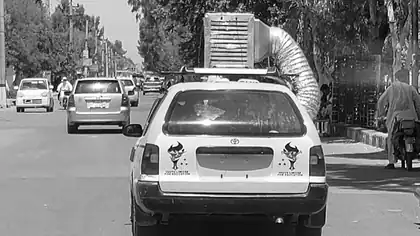
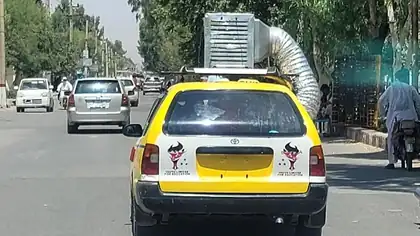
The grey pop between plates, and a cover too big to see its own caption
TWO REAL DEFECTS, both mine, both found by looking rather than by reading the code.

1 THE TRANSITION WENT GREY. Stepping to a plate showed its GHOST for about 1.35 seconds
  before the full photograph arrived, and the ghost files were greyscale. In register the
  plate has filter:none, so that ghost rendered as a genuinely grey picture which then
  snapped into colour. Measured on a throttled connection: 1350ms of grey, then a pop.

  The ghosts never needed to be grey. Out of register the CSS applies grayscale(1) anyway,
  so the colour in the file is invisible there and is exactly what was missing here. All
  ten regenerated in colour, 112 KB to 130 KB for the set, an extra 18 KB in total.
  Verified by sampling the plate mid transition: channel spread 17.5 against 18.2 for the
  full photograph, so it is now the same picture slightly soft rather than a different one
  in grey, and both frames were read side by side to confirm it.

2 THE COVER WAS TOO BIG TO SEE ITS OWN CAPTION. On a laptop the piece cover rendered
  1586x892, which put the caption 1201px down a 945px screen. You scrolled a full viewport
  of photograph before reaching the line that explains it, which is why the new captions
  looked like they had not been applied. The cover is now capped at min(920px, 100%, 90svh),
  height aware so it holds on short screens too. Checked at eight sizes: caption visible
  without scrolling at every one, including 1280x800 where the first attempt still failed.
[…]

diff --git a/pieces/advocacy/index.html b/pieces/advocacy/index.html
@@ -74,7 +74,12 @@ h1{font-size:clamp(1.75rem,4.4vw,3.1rem);line-height:1.04;letter-spacing:-.025em
 .byline{font-family:'JetBrains Mono',ui-monospace,monospace;font-size:var(--mm);
   letter-spacing:.13em;text-transform:uppercase;color:var(--shade);margin-top:16px}
 
-.plate{margin:30px 0 0;border:1px solid var(--ink)}
+/* The cover is capped rather than running the full sheet. At laptop width it was
+   rendering 1586px wide and 892px tall, which put the caption 1201px down a 945px
+   screen: you scrolled a whole viewport of photograph before reaching the line that
+   explains it, and his captions are the point of these pictures. Capped so the
+   photograph and its caption arrive together. */
+.plate{margin:30px 0 0;border:1px solid var(--ink);max-width:min(920px,100%,90svh)}
 .plate img{width:100%;height:auto;aspect-ratio:16/9;object-fit:cover}
 .plate figcaption{font-family:'JetBrains Mono',ui-monospace,monospace;
   font-size:calc(var(--mm) - .5px);color:var(--shade);padding:8px 10px;
@@ -105,8 +110,10 @@ a:focus-visible,.back:focus-visible{outline:2px solid var(--ink);outline-offset:
   .trim::before{top:6px;width:14px}.trim::after{left:6px;height:14px}
   .trim.tl{left:4px;top:4px}.trim.tr{right:4px;top:4px}
   .trim.bl{left:4px;bottom:4px}.trim.br{right:4px;bottom:4px}
+  /* max-width:none, or the desktop cap fights the bleed and the photograph shrinks
+     to the text column instead of running off both edges of the sheet. */
   .plate{margin-left:calc(var(--pad) * -1);margin-right:calc(var(--pad) * -1);
-    border-left:0;border-right:0}
+    border-left:0;border-right:0;max-width:none}
   .body{margin-top:30px}
 }
 @media (prefers-reduced-motion:reduce){*{animation:none!important;transition:none!important}}

diff --git a/pieces/digitalization/index.html b/pieces/digitalization/index.html
@@ -74,7 +74,12 @@ h1{font-size:clamp(1.75rem,4.4vw,3.1rem);line-height:1.04;letter-spacing:-.025em
 .byline{font-family:'JetBrains Mono',ui-monospace,monospace;font-size:var(--mm);
   letter-spacing:.13em;text-transform:uppercase;color:var(--shade);margin-top:16px}
 
-.plate{margin:30px 0 0;border:1px solid var(--ink)}
+/* The cover is capped rather than running the full sheet. At laptop width it was
+   rendering 1586px wide and 892px tall, which put the caption 1201px down a 945px
+   screen: you scrolled a whole viewport of photograph before reaching the line that
+   explains it, and his captions are the point of these pictures. Capped so the
+   photograph and its caption arrive together. */
+.plate{margin:30px 0 0;border:1px solid var(--ink);max-width:min(920px,100%,90svh)}
 .plate img{width:100%;height:auto;aspect-ratio:16/9;object-fit:cover}
 .plate figcaption{font-family:'JetBrains Mono',ui-monospace,monospace;
   font-size:calc(var(--mm) - .5px);color:var(--shade);padding:8px 10px;
@@ -105,8 +110,10 @@ a:focus-visible,.back:focus-visible{outline:2px solid var(--ink);outline-offset:
   .trim::before{top:6px;width:14px}.trim::after{left:6px;height:14px}
   .trim.tl{left:4px;top:4px}.trim.tr{right:4px;top:4px}
   .trim.bl{left:4px;bottom:4px}.trim.br{right:4px;bottom:4px}
+  /* max-width:none, or the desktop cap fights the bleed and the photograph shrinks
+     to the text column instead of running off both edges of the sheet. */
   .plate{margin-left:calc(var(--pad) * -1);margin-right:calc(var(--pad) * -1);
-    border-left:0;border-right:0}
+    border-left:0;border-right:0;max-width:none}
   .body{margin-top:30px}
 }
 @media (prefers-reduced-motion:reduce){*{animation:none!important;transition:none!important}}

diff --git a/pieces/fundraising/index.html b/pieces/fundraising/index.html
@@ -74,7 +74,12 @@ h1{font-size:clamp(1.75rem,4.4vw,3.1rem);line-height:1.04;letter-spacing:-.025em
 .byline{font-family:'JetBrains Mono',ui-monospace,monospace;font-size:var(--mm);
   letter-spacing:.13em;text-transform:uppercase;color:var(--shade);margin-top:16px}
 
-.plate{margin:30px 0 0;border:1px solid var(--ink)}
+/* The cover is capped rather than running the full sheet. At laptop width it was
+   rendering 1586px wide and 892px tall, which put the caption 1201px down a 945px
+   screen: you scrolled a whole viewport of photograph before reaching the line that
+   explains it, and his captions are the point of these pictures. Capped so the
+   photograph and its caption arrive together. */
+.plate{margin:30px 0 0;border:1px solid var(--ink);max-width:min(920px,100%,90svh)}
 .plate img{width:100%;height:auto;aspect-ratio:16/9;object-fit:cover}
 .plate figcaption{font-family:'JetBrains Mono',ui-monospace,monospace;
   font-size:calc(var(--mm) - .5px);color:var(--shade);padding:8px 10px;
@@ -105,8 +110,10 @@ a:focus-visible,.back:focus-visible{outline:2px solid var(--ink);outline-offset:
   .trim::before{top:6px;width:14px}.trim::after{left:6px;height:14px}
   .trim.tl{left:4px;top:4px}.trim.tr{right:4px;top:4px}
   .trim.bl{left:4px;bottom:4px}.trim.br{right:4px;bottom:4px}
+  /* max-width:none, or the desktop cap fights the bleed and the photograph shrinks
+     to the text column instead of running off both edges of the sheet. */
   .plate{margin-left:calc(var(--pad) * -1);margin-right:calc(var(--pad) * -1);
-    border-left:0;border-right:0}
+    border-left:0;border-right:0;max-width:none}
   .body{margin-top:30px}
 }
 @media (prefers-reduced-motion:reduce){*{animation:none!important;transition:none!important}}

diff --git a/pieces/hq-efficiency/index.html b/pieces/hq-efficiency/index.html
@@ -74,7 +74,12 @@ h1{font-size:clamp(1.75rem,4.4vw,3.1rem);line-height:1.04;letter-spacing:-.025em
 .byline{font-family:'JetBrains Mono',ui-monospace,monospace;font-size:var(--mm);
   letter-spacing:.13em;text-transform:uppercase;color:var(--shade);margin-top:16px}
 
-.plate{margin:30px 0 0;border:1px solid var(--ink)}
+/* The cover is capped rather than running the full sheet. At laptop width it was
+   rendering 1586px wide and 892px tall, which put the caption 1201px down a 945px
+   screen: you scrolled a whole viewport of photograph before reaching the line that
+   explains it, and his captions are the point of these pictures. Capped so the
+   photograph and its caption arrive together. */
+.plate{margin:30px 0 0;border:1px solid var(--ink);max-width:min(920px,100%,90svh)}
 .plate img{width:100%;height:auto;aspect-ratio:16/9;object-fit:cover}
 .plate figcaption{font-family:'JetBrains Mono',ui-monospace,monospace;
   font-size:calc(var(--mm) - .5px);color:var(--shade);padding:8px 10px;
@@ -105,8 +110,10 @@ a:focus-visible,.back:focus-visible{outline:2px solid var(--ink);outline-offset:
   .trim::before{top:6px;width:14px}.trim::after{left:6px;height:14px}
   .trim.tl{left:4px;top:4px}.trim.tr{right:4px;top:4px}
   .trim.bl{left:4px;bottom:4px}.trim.br{right:4px;bottom:4px}
+  /* max-width:none, or the desktop cap fights the bleed and the photograph shrinks
+     to the text column instead of running off both edges of the sheet. */
   .plate{margin-left:calc(var(--pad) * -1);margin-right:calc(var(--pad) * -1);
-    border-left:0;border-right:0}
+    border-left:0;border-right:0;max-width:none}
   .body{margin-top:30px}
 }
 @media (prefers-reduced-motion:reduce){*{animation:none!important;transition:none!important}}

diff --git a/pieces/hq-strategy/index.html b/pieces/hq-strategy/index.html
@@ -74,7 +74,12 @@ h1{font-size:clamp(1.75rem,4.4vw,3.1rem);line-height:1.04;letter-spacing:-.025em
 .byline{font-family:'JetBrains Mono',ui-monospace,monospace;font-size:var(--mm);
   letter-spacing:.13em;text-transform:uppercase;color:var(--shade);margin-top:16px}
 
-.plate{margin:30px 0 0;border:1px solid var(--ink)}
+/* The cover is capped rather than running the full sheet. At laptop width it was
+   rendering 1586px wide and 892px tall, which put the caption 1201px down a 945px
+   screen: you scrolled a whole viewport of photograph before reaching the line that
+   explains it, and his captions are the point of these pictures. Capped so the
+   photograph and its caption arrive together. */
+.plate{margin:30px 0 0;border:1px solid var(--ink);max-width:min(920px,100%,90svh)}
 .plate img{width:100%;height:auto;aspect-ratio:16/9;object-fit:cover}
 .plate figcaption{font-family:'JetBrains Mono',ui-monospace,monospace;
   font-size:calc(var(--mm) - .5px);color:var(--shade);padding:8px 10px;
@@ -105,8 +110,10 @@ a:focus-visible,.back:focus-visible{outline:2px solid var(--ink);outline-offset:
   .trim::before{top:6px;width:14px}.trim::after{left:6px;height:14px}
   .trim.tl{left:4px;top:4px}.trim.tr{right:4px;top:4px}
   .trim.bl{left:4px;bottom:4px}.trim.br{right:4px;bottom:4px}
+  /* max-width:none, or the desktop cap fights the bleed and the photograph shrinks
+     to the text column instead of running off both edges of the sheet. */
   .plate{margin-left:calc(var(--pad) * -1);margin-right:calc(var(--pad) * -1);
-    border-left:0;border-right:0}
+    border-left:0;border-right:0;max-width:none}
   .body{margin-top:30px}
 }
 @media (prefers-reduced-motion:reduce){*{animation:none!important;transition:none!important}}

diff --git a/pieces/overhead/index.html b/pieces/overhead/index.html
@@ -74,7 +74,12 @@ h1{font-size:clamp(1.75rem,4.4vw,3.1rem);line-height:1.04;letter-spacing:-.025em
 .byline{font-family:'JetBrains Mono',ui-monospace,monospace;font-size:var(--mm);
   letter-spacing:.13em;text-transform:uppercase;color:var(--shade);margin-top:16px}
 
-.plate{margin:30px 0 0;border:1px solid var(--ink)}
+/* The cover is capped rather than running the full sheet. At laptop width it was
+   rendering 1586px wide and 892px tall, which put the caption 1201px down a 945px
+   screen: you scrolled a whole viewport of photograph before reaching the line that
+   explains it, and his captions are the point of these pictures. Capped so the
+   photograph and its caption arrive together. */
+.plate{margin:30px 0 0;border:1px solid var(--ink);max-width:min(920px,100%,90svh)}
 .plate img{width:100%;height:auto;aspect-ratio:16/9;object-fit:cover}
 .plate figcaption{font-family:'JetBrains Mono',ui-monospace,monospace;
   font-size:calc(var(--mm) - .5px);color:var(--shade);padding:8px 10px;
@@ -105,8 +110,10 @@ a:focus-visible,.back:focus-visible{outline:2px solid var(--ink);outline-offset:
   .trim::before{top:6px;width:14px}.trim::after{left:6px;height:14px}
   .trim.tl{left:4px;top:4px}.trim.tr{right:4px;top:4px}
   .trim.bl{left:4px;bottom:4px}.trim.br{right:4px;bottom:4px}
+  /* max-width:none, or the desktop cap fights the bleed and the photograph shrinks
+     to the text column instead of running off both edges of the sheet. */
   .plate{margin-left:calc(var(--pad) * -1);margin-right:calc(var(--pad) * -1);
-    border-left:0;border-right:0}
+    border-left:0;border-right:0;max-width:none}
   .body{margin-top:30px}
 }
 @media (prefers-reduced-motion:reduce){*{animation:none!important;transition:none!important}}

diff --git a/pieces/regional-offices/index.html b/pieces/regional-offices/index.html
@@ -74,7 +74,12 @@ h1{font-size:clamp(1.75rem,4.4vw,3.1rem);line-height:1.04;letter-spacing:-.025em
 .byline{font-family:'JetBrains Mono',ui-monospace,monospace;font-size:var(--mm);
   letter-spacing:.13em;text-transform:uppercase;color:var(--shade);margin-top:16px}
 
-.plate{margin:30px 0 0;border:1px solid var(--ink)}
+/* The cover is capped rather than running the full sheet. At laptop width it was
+   rendering 1586px wide and 892px tall, which put the caption 1201px down a 945px
+   screen: you scrolled a whole viewport of photograph before reaching the line that
+   explains it, and his captions are the point of these pictures. Capped so the
+   photograph and its caption arrive together. */
+.plate{margin:30px 0 0;border:1px solid var(--ink);max-width:min(920px,100%,90svh)}
 .plate img{width:100%;height:auto;aspect-ratio:16/9;object-fit:cover}
 .plate figcaption{font-family:'JetBrains Mono',ui-monospace,monospace;
   font-size:calc(var(--mm) - .5px);color:var(--shade);padding:8px 10px;
@@ -105,8 +110,10 @@ a:focus-visible,.back:focus-visible{outline:2px solid var(--ink);outline-offset:
   .trim::before{top:6px;width:14px}.trim::after{left:6px;height:14px}
   .trim.tl{left:4px;top:4px}.trim.tr{right:4px;top:4px}
   .trim.bl{left:4px;bottom:4px}.trim.br{right:4px;bottom:4px}
+  /* max-width:none, or the desktop cap fights the bleed and the photograph shrinks
+     to the text column instead of running off both edges of the sheet. */
   .plate{margin-left:calc(var(--pad) * -1);margin-right:calc(var(--pad) * -1);
-    border-left:0;border-right:0}
+    border-left:0;border-right:0;max-width:none}
   .body{margin-top:30px}
 }
 @media (prefers-reduced-motion:reduce){*{animation:none!important;transition:none!important}}

diff --git a/pieces/risk-management/index.html b/pieces/risk-management/index.html
@@ -74,7 +74,12 @@ h1{font-size:clamp(1.75rem,4.4vw,3.1rem);line-height:1.04;letter-spacing:-.025em
 .byline{font-family:'JetBrains Mono',ui-monospace,monospace;font-size:var(--mm);
   letter-spacing:.13em;text-transform:uppercase;color:var(--shade);margin-top:16px}
 
-.plate{margin:30px 0 0;border:1px solid var(--ink)}
+/* The cover is capped rather than running the full sheet. At laptop width it was
+   rendering 1586px wide and 892px tall, which put the caption 1201px down a 945px
+   screen: you scrolled a whole viewport of photograph before reaching the line that
+   explains it, and his captions are the point of these pictures. Capped so the
+   photograph and its caption arrive together. */
+.plate{margin:30px 0 0;border:1px solid var(--ink);max-width:min(920px,100%,90svh)}
 .plate img{width:100%;height:auto;aspect-ratio:16/9;object-fit:cover}
 .plate figcaption{font-family:'JetBrains Mono',ui-monospace,monospace;
   font-size:calc(var(--mm) - .5px);color:var(--shade);padding:8px 10px;
@@ -105,8 +110,10 @@ a:focus-visible,.back:focus-visible{outline:2px solid var(--ink);outline-offset:
   .trim::before{top:6px;width:14px}.trim::after{left:6px;height:14px}
   .trim.tl{left:4px;top:4px}.trim.tr{right:4px;top:4px}
   .trim.bl{left:4px;bottom:4px}.trim.br{right:4px;bottom:4px}
+  /* max-width:none, or the desktop cap fights the bleed and the photograph shrinks
+     to the text column instead of running off both edges of the sheet. */
   .plate{margin-left:calc(var(--pad) * -1);margin-right:calc(var(--pad) * -1);
-    border-left:0;border-right:0}
+    border-left:0;border-right:0;max-width:none}
   .body{margin-top:30px}
 }
 @media (prefers-reduced-motion:reduce){*{animation:none!important;transition:none!important}}

diff --git a/pieces/transformation/index.html b/pieces/transformation/index.html
@@ -74,7 +74,12 @@ h1{font-size:clamp(1.75rem,4.4vw,3.1rem);line-height:1.04;letter-spacing:-.025em
 .byline{font-family:'JetBrains Mono',ui-monospace,monospace;font-size:var(--mm);
   letter-spacing:.13em;text-transform:uppercase;color:var(--shade);margin-top:16px}
 
-.plate{margin:30px 0 0;border:1px solid var(--ink)}
+/* The cover is capped rather than running the full sheet. At laptop width it was
+   rendering 1586px wide and 892px tall, which put the caption 1201px down a 945px
+   screen: you scrolled a whole viewport of photograph before reaching the line that
+   explains it, and his captions are the point of these pictures. Capped so the
+   photograph and its caption arrive together. */
+.plate{margin:30px 0 0;border:1px solid var(--ink);max-width:min(920px,100%,90svh)}
 .plate img{width:100%;height:auto;aspect-ratio:16/9;object-fit:cover}
 .plate figcaption{font-family:'JetBrains Mono',ui-monospace,monospace;
   font-size:calc(var(--mm) - .5px);color:var(--shade);padding:8px 10px;
@@ -105,8 +110,10 @@ a:focus-visible,.back:focus-visible{outline:2px solid var(--ink);outline-offset:
   .trim::before{top:6px;width:14px}.trim::after{left:6px;height:14px}
   .trim.tl{left:4px;top:4px}.trim.tr{right:4px;top:4px}
   .trim.bl{left:4px;bottom:4px}.trim.br{right:4px;bottom:4px}
+  /* max-width:none, or the desktop cap fights the bleed and the photograph shrinks
+     to the text column instead of running off both edges of the sheet. */
   .plate{margin-left:calc(var(--pad) * -1);margin-right:calc(var(--pad) * -1);
-    border-left:0;border-right:0}
+    border-left:0;border-right:0;max-width:none}
   .body{margin-top:30px}
 }
 @media (prefers-reduced-motion:reduce){*{animation:none!important;transition:none!important}}
